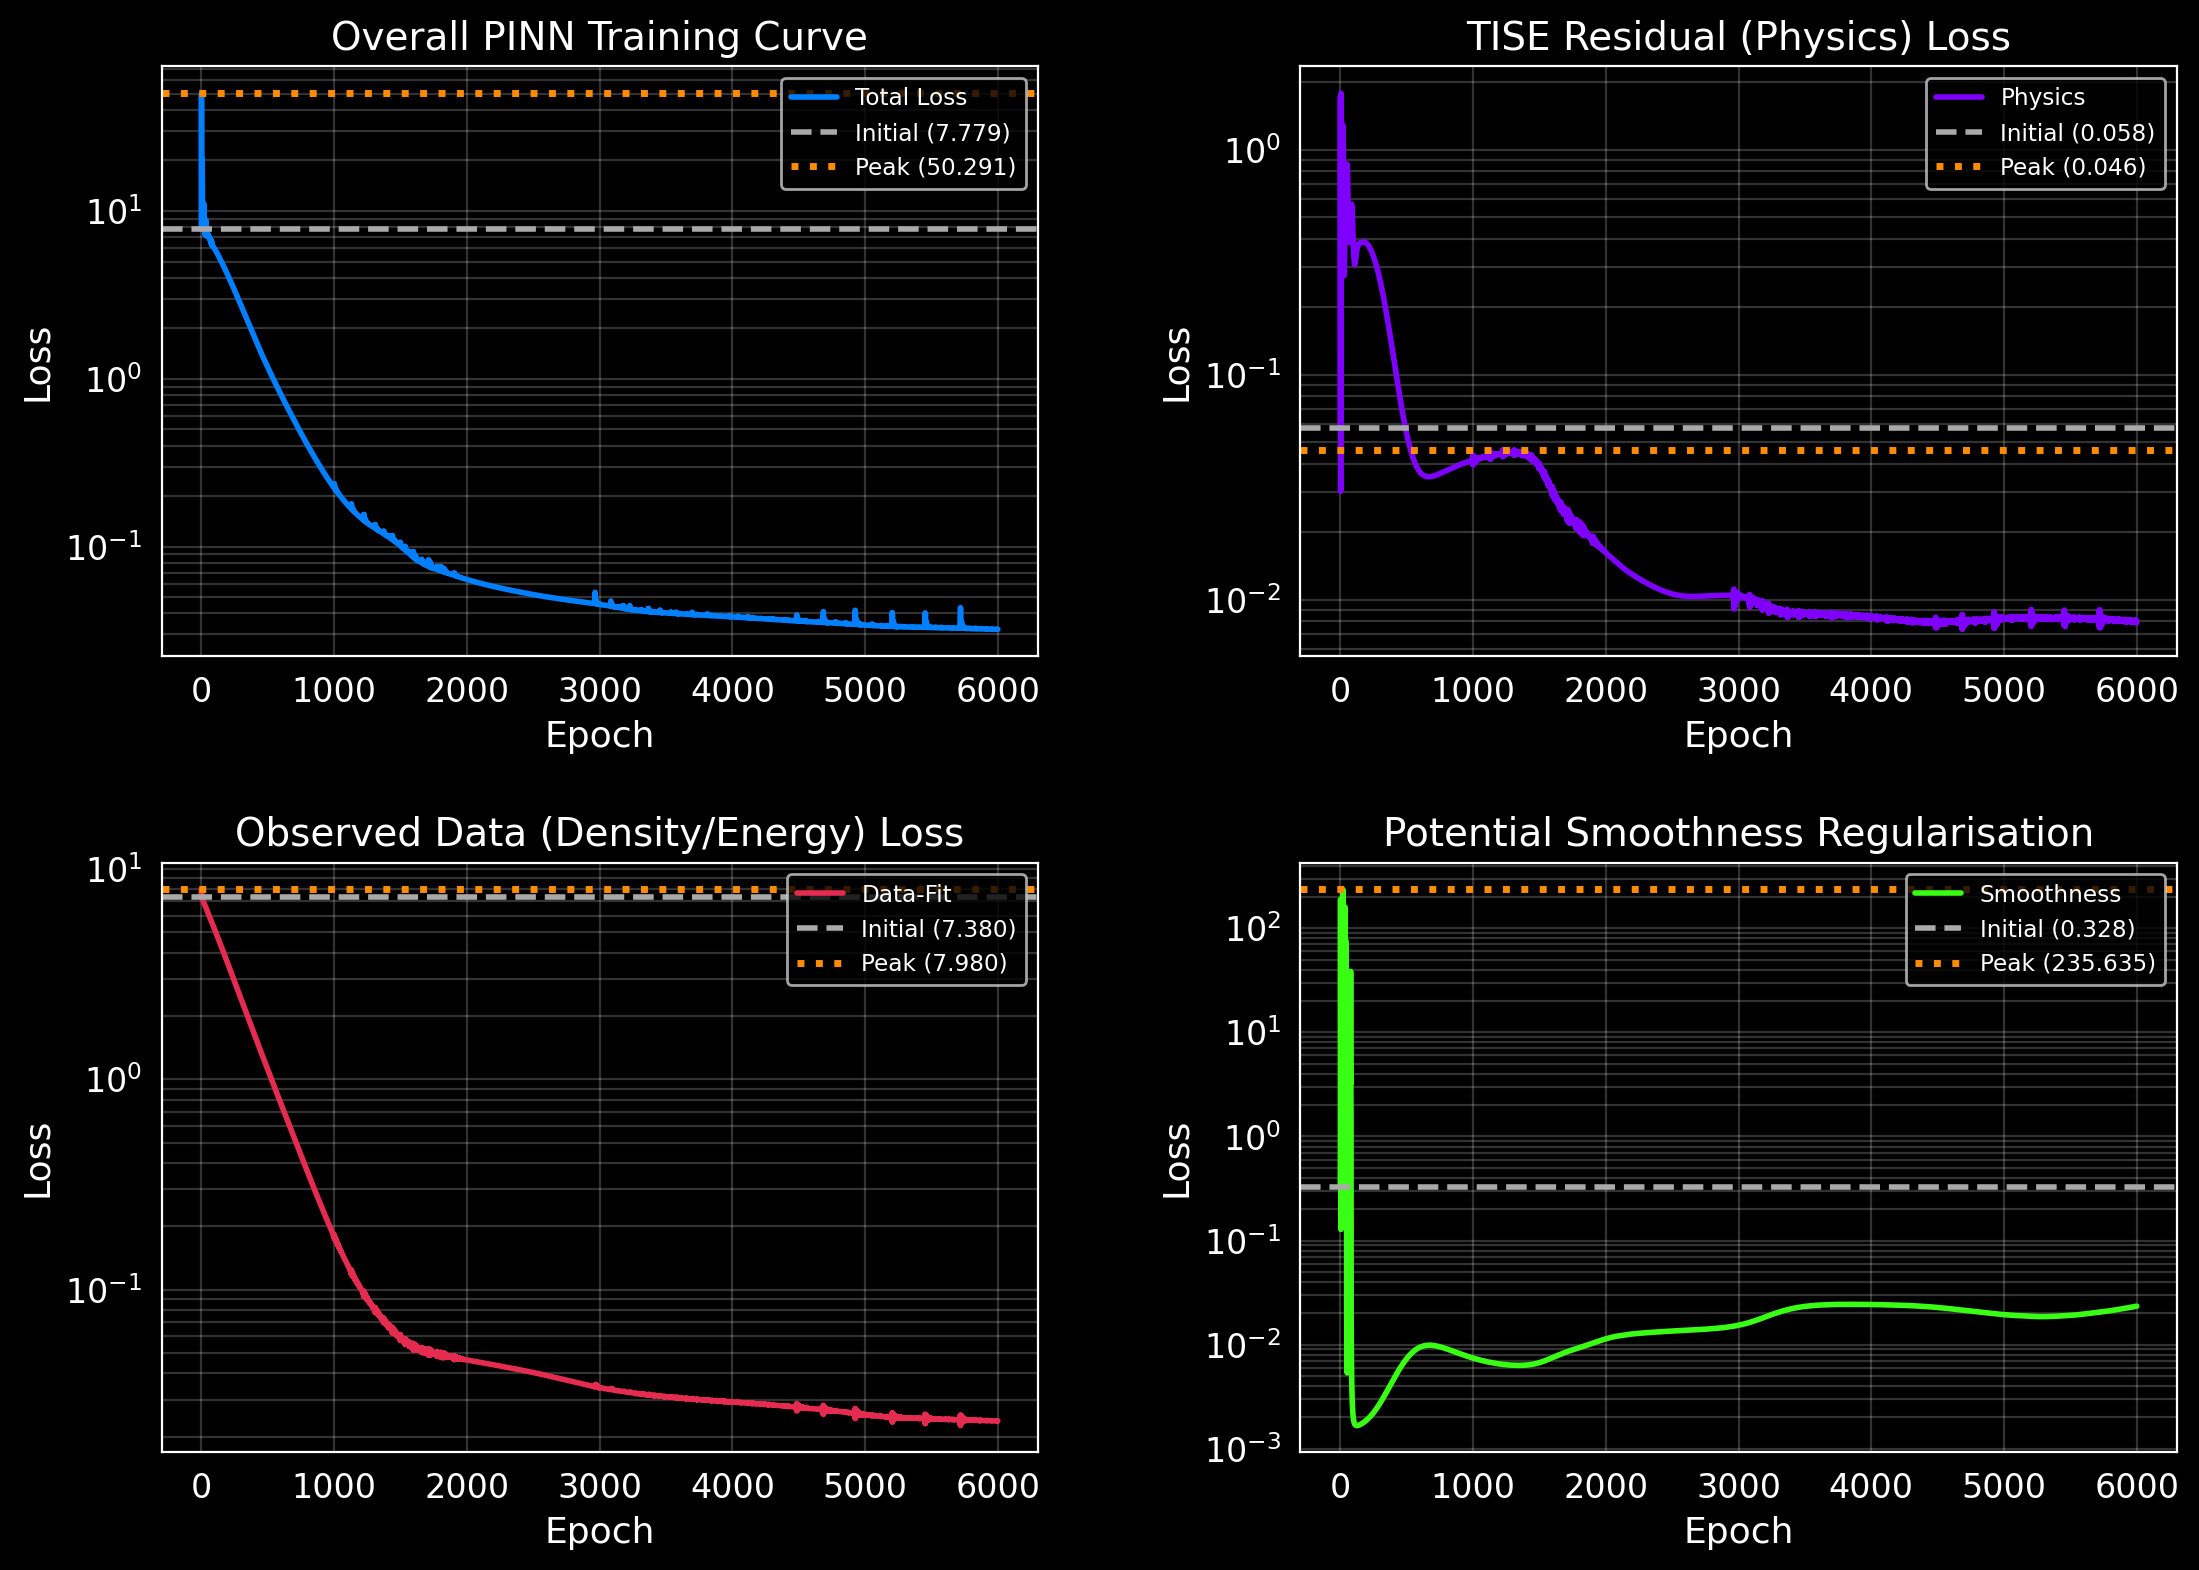
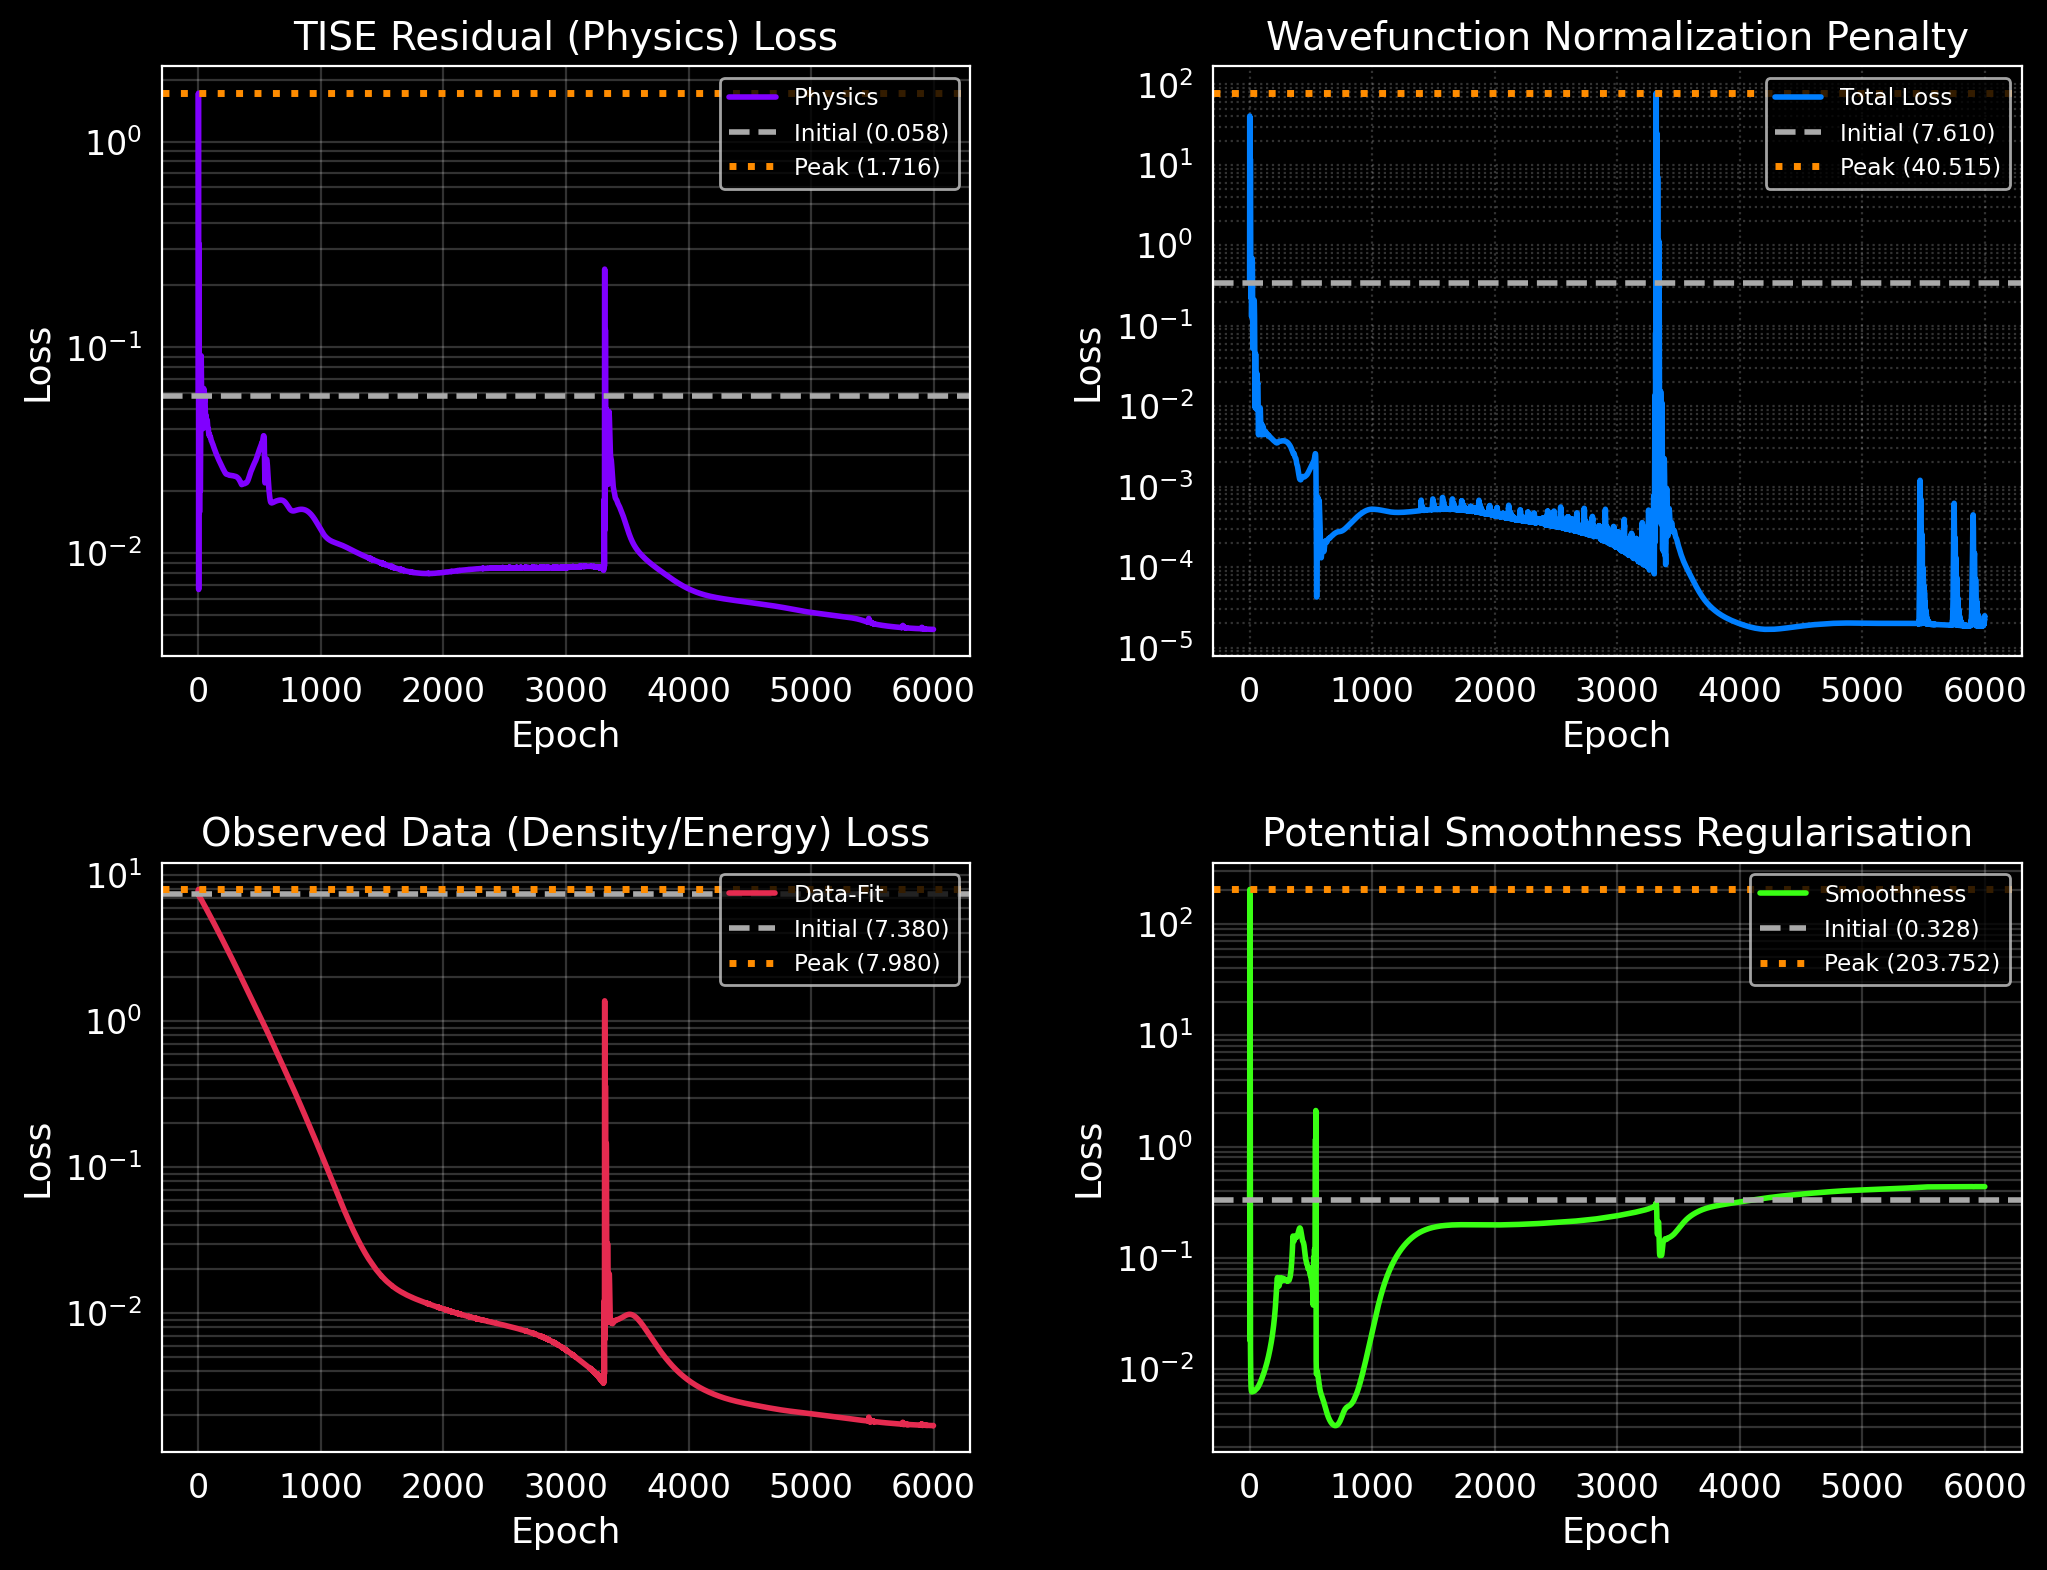
Updated README.md with loss function table with new wavefunction normalization loss included.

Changed region(s): [[0.0, 0.0, 0.4924, 0.9987], [0.5232, 0.4994, 1.0, 0.9987], [0.5232, 0.0, 1.0, 0.4994]]

diff --git a/README.md b/README.md
@@ -59,20 +59,15 @@ Orthogonality
 - However, our POD function (`src/pod.py`) allows us to _diagnose_ orthogonality.
 
 ---
-## Loss Function
-- [ ] Condense this section into a table.
+## 📉 Loss Function
 
-### TISE Residual
-$$\mathcal{L}_\text{TISE}=\Bigg<\bigg(-\frac{\hbar^2}{2m}\psi_n''(x)+V(x)\psi_n(x)-E_n\psi_n(x)\bigg)^2\Bigg>$$
-
-### Scale-Aware Smoothness
-$$\mathcal{L}_\text{smooth}=\Bigg<\frac{|V''(x)|^2}{\epsilon + |V(x)|^2}\Bigg>$$
-
-### Data Mismatch (Noisy Observations)
-$$\mathcal{L}_\text{data} = \sum _n {\Big|\Big| E_n - E_n^\text{obs} \Big|\Big|^2 + \Big|\Big| \Big( |{\psi_\theta}_n |^2 - \rho_n^\text{obs} \Big)}\Big|\Big|^2 $$
-
-### Total Loss
-$$\mathcal{L}_\text{total}=\lambda_\text{data}\mathcal{L}_\text{data}+\lambda_\text{phys}\mathcal{L}_\text{TISE}+\lambda_\text{smooth}\mathcal{L}_\text{smooth}$$
+| **Loss Term** | **Formulation**                                                                                                                                                                | **Soft vs. Hard**                            | **Type**                     | **Comments** |
+| ------------- |--------------------------------------------------------------------------------------------------------------------------------------------------------------------------------|----------------------------------------------|------------------------------| ------------ |
+| **Schrodinger residual (physics loss)** | $$\mathcal{L}_\text{TISE} = \sum_n{\Big\| -\frac{\hbar^2}{2m}\frac{\partial^2}{\partial x^2}\psi_n^\theta + V_\theta(x)\psi_n^\theta(x)-E_n^\theta\psi_n^\theta(x) \Big\|^2}$$ | soft                                         | Consistency condition        | Enforces the TISE. |
+| **Wavefunction normalization loss** | $$ \mathcal{L}_\text{norm} = \frac{1}{N}\sum_{n=1}^N{\bigg(\int{\|\psi^\theta_n(x)\|^2dx} - 1\bigg)^2}$$                                                                       | ❓                                            | ❓                            | ❓ 
+| **Scale-aware smoothness** | $$ \mathcal{L}_\text{smooth} = \Big< \frac{\| V_\theta''(x)\| ^2}{\epsilon + \|V_\theta(x)\|^2}\Big> $$                                                                        | soft | Regularizer | Penalize steep curvature in $V_\theta(x)$. Encourages physically plausible potentials and controls the ill-posedness of the inverse problem. |
+| **Data mismatch (obervables)** | $$ \mathcal{L}_\text{data} = \sum_n{\|E_n^\theta-E_n^\text{obs}\|^2 +  \|\|\psi_n^\theta(x)\|^2 - \rho_n^\text{obs}(x)\|^2} $$ | soft (in the sense of measurement noise)  | Consistency condition | Ensures the learned eigenstates match noisy observations. |
+| **Total Loss** | $$ \mathcal{L}_\text{total} = \lambda_\text{TISE}\mathcal{L}_\text{TISE} + \lambda_\text{norm}\mathcal{L}_\text{norm} + \lambda_\text{smooth}\mathcal{L}_\text{smooth} + \lambda_\text{data}\mathcal{L}_\text{data} $$ | ❓ | ❓ | ❓ |
 
 ---
 ## Proper Orthogonal Decomposition (POD)
